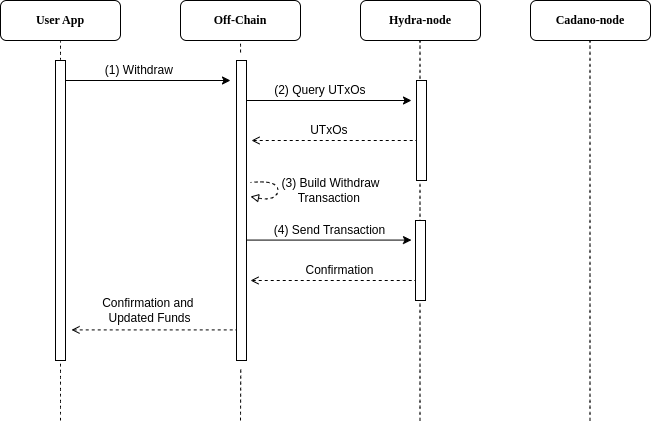
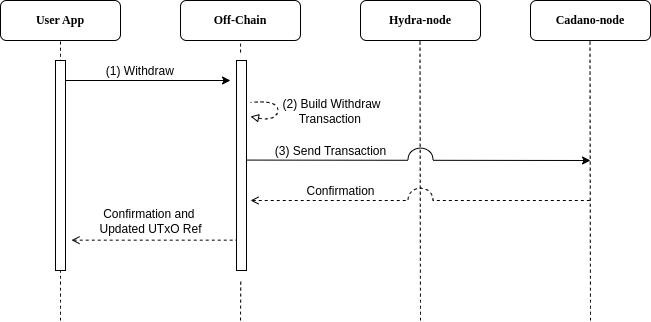
Updates Withdreaw User funds operation

diff --git a/doc/requirements_and_design.md b/doc/requirements_and_design.md
@@ -82,12 +82,10 @@ Context: A User wants to use their available funds to pay a Merchant
 
 Context: A User wants to withdraw ADAs from the protocol
 
-- The backend receives a request with the user address, amount to withdraw and signature (1)
-- The backend queries the L2 User Funds UTxOs (2)
-- The backend builds an L2 transaction that spends the user funds UTxO and creates a new UTxO at the user address (3)
-- The backend sends the transaction to the hydra node (4)
-- The hydra node responds with the confirmation of the transaction
-- The backend returns the confirmation and the updated User Funds
+- The backend receives a request with the user UTxO ref and signature (1)
+- The backend builds an L1 transaction that spends the user funds UTxO and creates a new UTxO at the user address (2)
+- The backend sends the transaction to the cardano node (3)
+- The backend returns the confirmation and the updated UTxO ref
 
 ![WithdrawFundsDiagram](img/diagram-withdraw-user-funds.png)
 
